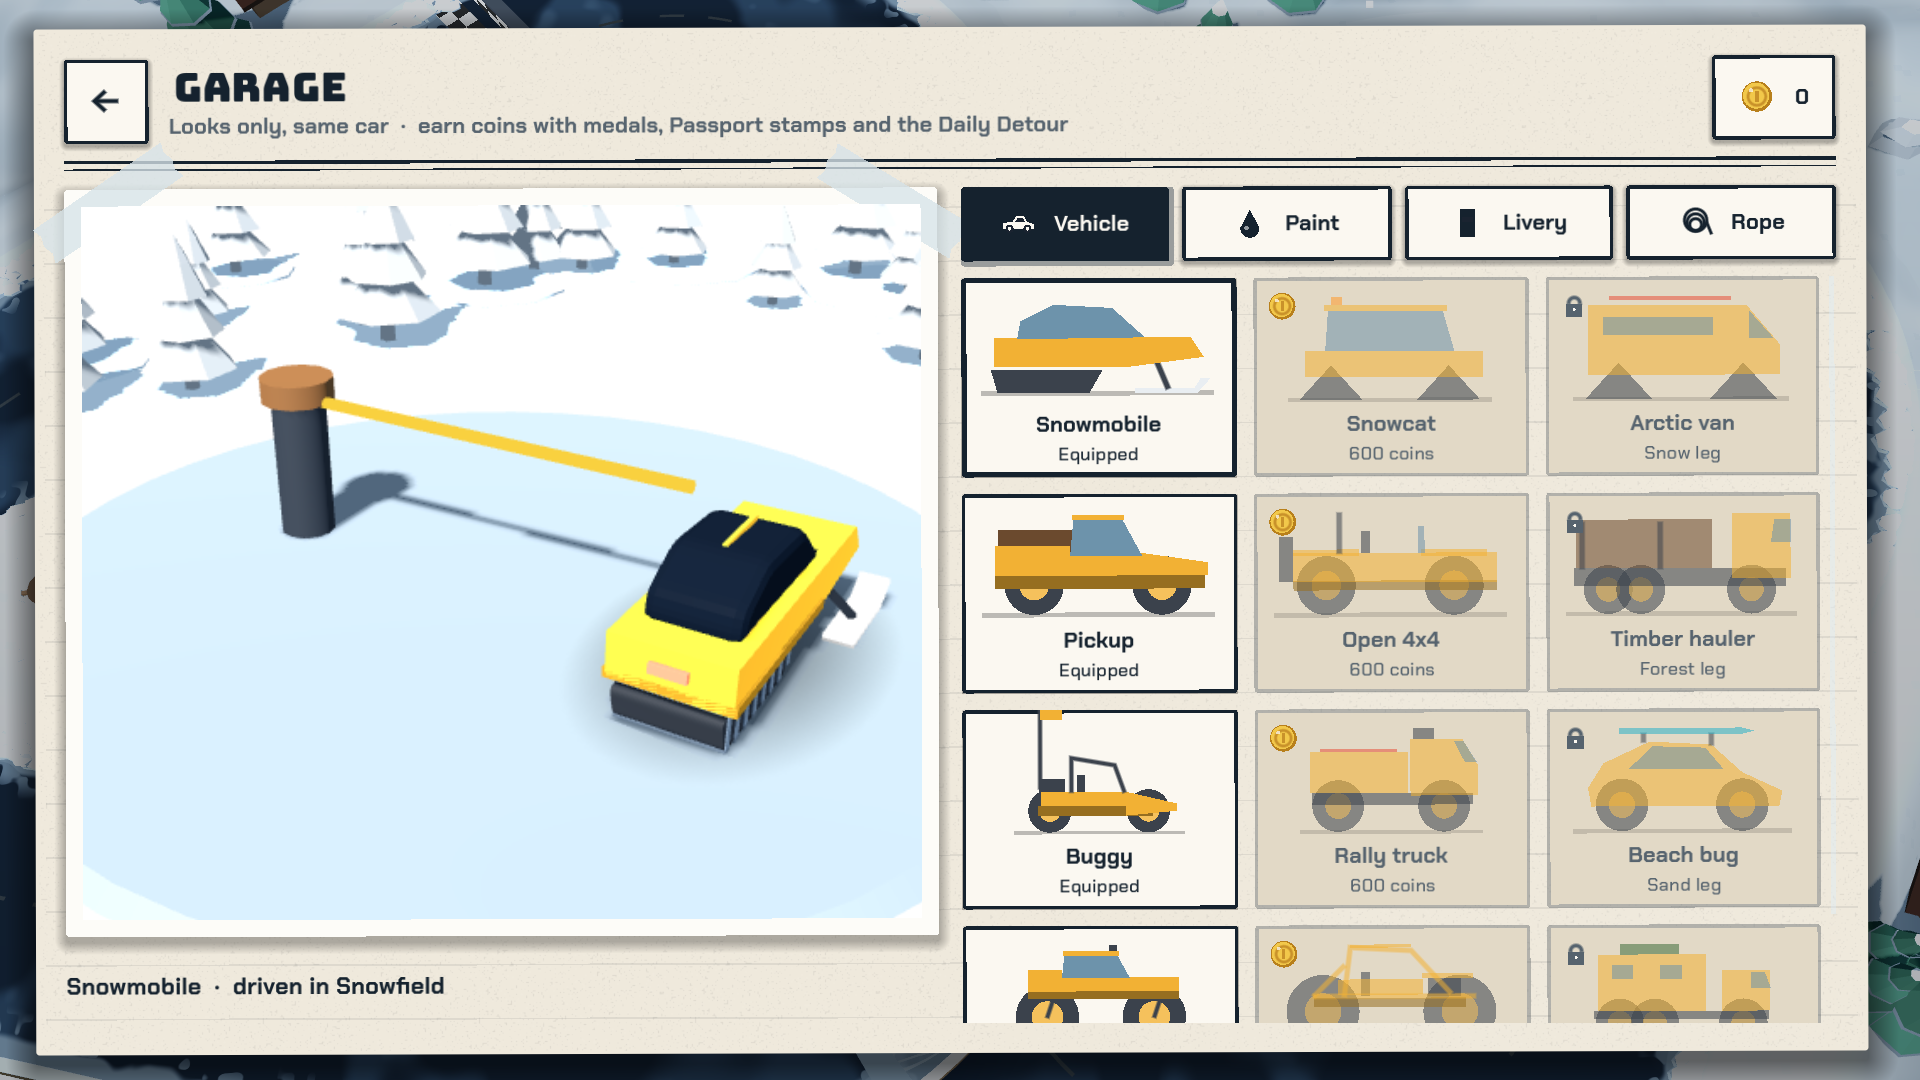
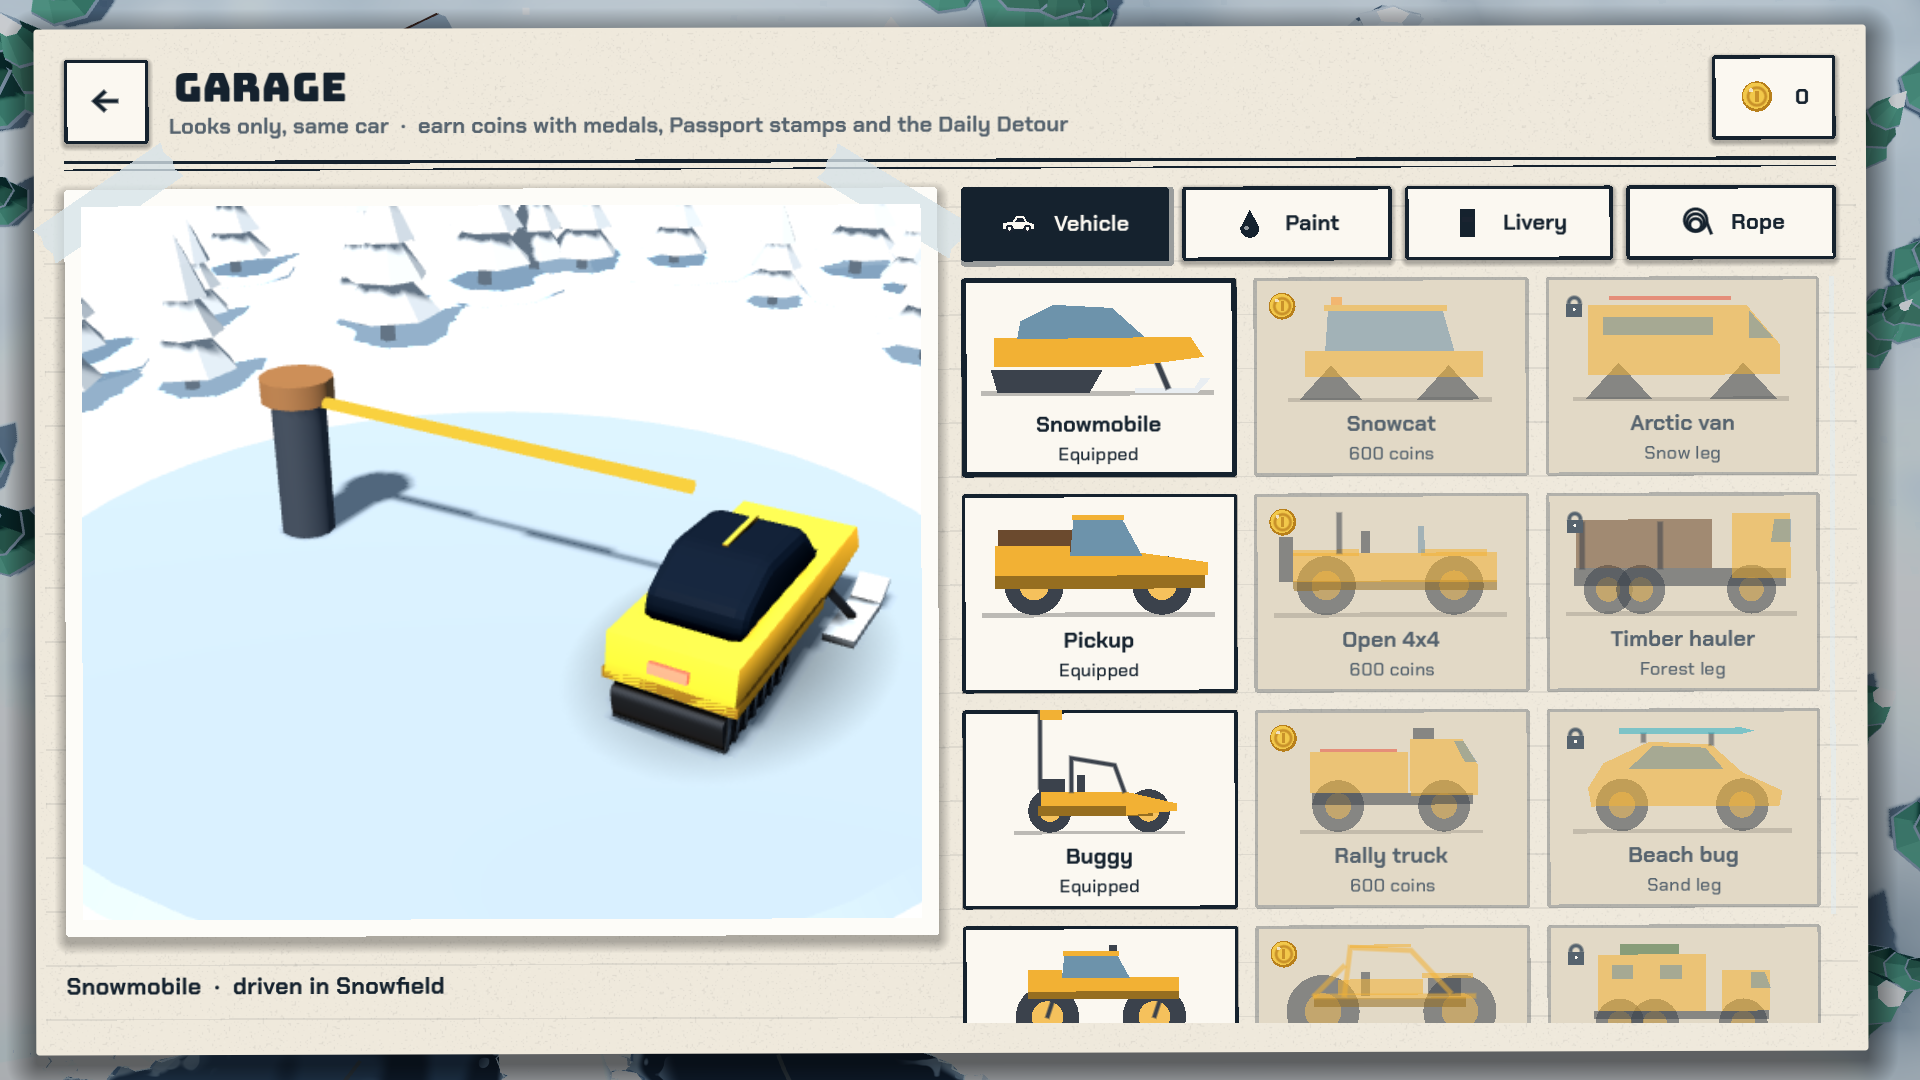
Baked ambient occlusion on the vehicles (#103)
* Baked ambient occlusion on the vehicles

Each vehicle's parts shade each other and the road under it (wheel arches,
logs in the bed, under the cab). tools/bake_car_ao.gd ray traces it once per
vertex into art/car_ao.res; WorldView.apply_ao turns it into vertex colours,
so it costs nothing per frame (the Mobile renderer has no SSAO).
tests/car_ao_test.gd checks the bake fits every vehicle.

Claude-Session: https://claude.ai/code/session_01VxP4fq7zwnun9ZRq4u4BDG

* Store garage screenshot with the baked car AO

Claude-Session: https://claude.ai/code/session_01VxP4fq7zwnun9ZRq4u4BDG

---------

diff --git a/tether-rally/AGENTS.md b/tether-rally/AGENTS.md
@@ -69,6 +69,7 @@ godot --headless --path . --script tests/pause_test.gd   # pause page stays shor
 godot --headless --path . --script tests/wall_test.gd    # a car on the road edge always gets off it again
 godot --headless --path . --script tests/tutorial_test.gd  # the first-launch tutorial can be finished
 godot --headless --path . --script tests/cosmetics_test.gd  # garage items: prices, every look builds, looks only
+godot --headless --path . --script tests/car_ao_test.gd    # baked car AO fits every vehicle's current parts
 godot --headless --path . --script tests/economy_test.gd    # coins, Track of the day, awards, buying, progress reset
 godot --headless --path . --script tests/monetization_test.gd # ads/store stubs: rewards, daily caps, full-screen pacing, No ads
 godot --headless --path . --script tests/results_offers_test.gd # results ad offers, Gold ghost, Daily Detour attempts, full-screen ads
@@ -109,6 +110,12 @@ does. Test with a long save too (four-digit coins, every medal kind): the home p
 
 Screenshots without a GPU: `xvfb-run -a godot --rendering-driver opengl3 --path . --resolution 1280x720 -- <demo flag>`
 with `SHOT_DIR=<dir>`. Demo flags in `scripts/main.gd`: `--demo=`, `--tutorial-demo`, `--cine-demo=` (camera shots).
+
+Car ambient occlusion is baked, not rendered (the Mobile renderer has no SSAO): `tools/bake_car_ao.gd`
+ray traces each vehicle's game model once into `art/car_ao.res` (per-vertex shading, applied as vertex
+colours by `WorldView.apply_ao`). After changing any vehicle's parts, rerun
+`godot --headless --path . --script tools/bake_car_ao.gd` (~10 s) and commit the `.res`;
+`tests/car_ao_test.gd` fails until you do. Livery decals and detail-2 artwork models are left out.
 
 Engine sounds: each vehicle has a profile in `scripts/engines.gd` (a new vehicle needs one, the
 test checks). Hear them without a speaker-equipped game: `ENGINE_OUT=<dir> godot --headless --path .
